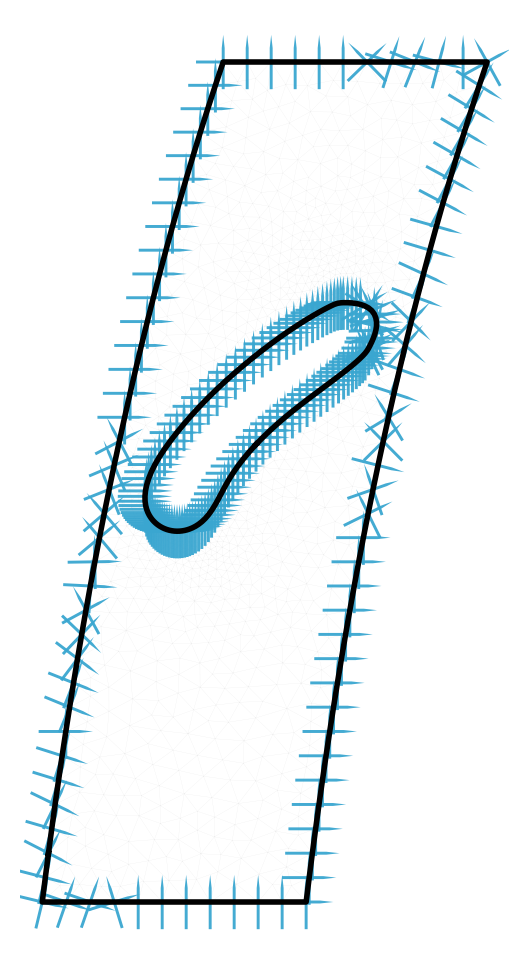
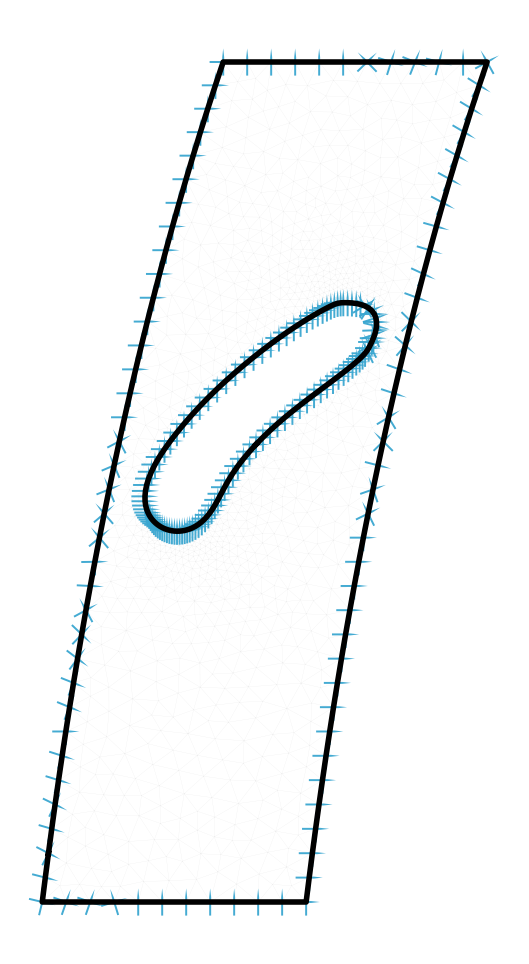
feat(slides): update step plots, add postprocessing step 09

diff --git a/scripts/plot_slide09_postprocessing.py b/scripts/plot_slide09_postprocessing.py
@@ -1,0 +1,126 @@
+#!/usr/bin/env python3
+"""
+Stage 1 / Step 09: Final T-a block structure (postprocessing), styled to match
+slides 1-8 (pure image, transparent, portrait, no axes/title/legend).
+
+Two marker families (both, per user request):
+  - RED open circle rings: the irregular interior nodes (valence != 4) = the
+    two blade field singularities (valence 5), the legitimate irregular block
+    corners that remain.
+  - ORANGE dashed arcs + rings: the wedge streamlines that T-a DELETES at the
+    periodic seam (``mesh.dropped_wedge_arms``) — clarifies WHERE streamlines
+    are removed (the same arms shown dashed in Step 8).
+
+Block data + regularity come straight from the real partition pipeline
+(``tmesh_partition.run_tmesh`` -> ``tmesh_faces.node_regularity``), so this is
+the actual T-a result, not a re-drawing.
+
+Output: plots/step09_postprocessing.png
+"""
+
+import sys
+import tempfile
+from pathlib import Path
+
+SCRIPT_DIR = Path(__file__).resolve().parent
+STAGE1_DIR = SCRIPT_DIR / "stage1"
+REPO_ROOT = SCRIPT_DIR.parent
+DP2D_DIR = REPO_ROOT.parent / "domain_partition_2D"
+
+if str(STAGE1_DIR) not in sys.path:
+    sys.path.insert(0, str(STAGE1_DIR))
+if str(DP2D_DIR) not in sys.path:
+    sys.path.insert(0, str(DP2D_DIR))
+
+OUT_PATH = REPO_ROOT / "plots" / "step09_postprocessing.png"
+
+import matplotlib
+
+matplotlib.use("Agg")
+import matplotlib.pyplot as plt
+import numpy as np
+
+import unwrap_surface as us  # noqa: E402
+import clean_separatrix as cs  # noqa: E402
+import partition_surface as ps  # noqa: E402
+import tmesh_faces as tmf  # noqa: E402
+import tmesh_partition as tp  # noqa: E402
+
+
+def main() -> None:
+    OUT_PATH.parent.mkdir(parents=True, exist_ok=True)
+
+    us.set_blade_tip_corners(False)
+    cs.set_emanate_outer_corners(True)
+
+    # --- 1. Run the real T-a pipeline (no plots) ---
+    with tempfile.TemporaryDirectory() as tmp:
+        ta = tp.run_tmesh(out_dir=Path(tmp), continue_seam_edges=False,
+                          tag="ta", make_plots=False, verbose=False)
+    result = ta["result"]
+    mesh = ta["mesh"]
+    boundary_ref = ta["boundary_ref"]
+    nodes = result["nodes"]
+    wedge_arms = getattr(mesh, "dropped_wedge_arms", []) or []
+
+    # Irregular interior nodes (valence != 4) = blade field singularities.
+    def _bdist(p):
+        return ps._min_boundary_dist(p, boundary_ref)
+
+    _regular, _tnodes, irregular = tmf.node_regularity(result, _bdist)
+
+    # --- 2. Plot (minimalist, slides 1-8 style) ---
+    xy = mesh.x[:, 0:2].numpy()
+    tris = mesh.faces.T.numpy()
+    fig, ax = plt.subplots(figsize=(4, 6))  # portrait
+
+    ax.triplot(xy[:, 0], xy[:, 1], tris, lw=0.1, color="0.93")
+
+    # Block cells: subtle light-blue fill, blue edges, small black corners.
+    for blk in result["blocks"]:
+        ring = blk["ring"]
+        ax.fill(ring[:, 0], ring[:, 1], alpha=0.12, color="#87CEEB")
+        for s in blk["sides"]:
+            ax.plot(s[:, 0], s[:, 1], color="#3aa6d0", lw=1.1, zorder=3)
+        c = nodes[blk["corners"]]
+        ax.scatter(c[:, 0], c[:, 1], c="black", s=10, zorder=5)
+
+    # Domain boundary (walls / blade): black.
+    for b in boundary_ref:
+        b = np.asarray(b, float)
+        if b.ndim == 2 and len(b) >= 2:
+            ax.plot(b[:, 0], b[:, 1], color="black", lw=1.6, zorder=4)
+
+    # ONLY the deletion story: each T-a-deleted wedge streamline drawn RED,
+    # and a RED ring around the singularity it emanates from (the two
+    # singularities where a streamline is removed). No other markers.
+    sing_xy = nodes[irregular] if irregular else np.zeros((0, 2))
+    ring_sings = set()
+    for arm in wedge_arms:
+        arm = np.asarray(arm, float)
+        if arm.ndim != 2 or len(arm) < 2:
+            continue
+        ax.plot(arm[:, 0], arm[:, 1], color="red", lw=2.2, zorder=8)
+        if len(sing_xy):
+            # The singularity end of the arm: the endpoint nearest a singularity.
+            d0 = np.min(np.linalg.norm(sing_xy - arm[0], axis=1))
+            d1 = np.min(np.linalg.norm(sing_xy - arm[-1], axis=1))
+            tip = arm[0] if d0 <= d1 else arm[-1]
+            ring_sings.add(int(np.argmin(np.linalg.norm(sing_xy - tip, axis=1))))
+    for si in ring_sings:
+        ax.scatter(sing_xy[si, 0], sing_xy[si, 1], facecolors="none",
+                   edgecolors="red", s=170, linewidths=2.2, zorder=9)
+
+    ax.set_aspect("equal")
+    ax.set_axis_off()
+    fig.savefig(OUT_PATH, dpi=200, transparent=True, bbox_inches="tight")
+    plt.close(fig)
+
+    print(f"wrote {OUT_PATH}")
+    print(f"  blocks:             {len(result['blocks'])}")
+    print(f"  deleted streamlines (red): {len(wedge_arms)}")
+    print(f"  ringed singularities:      {len(ring_sings)}")
+
+
+if __name__ == "__main__":
+    main()

diff --git a/scripts/plot_slide08_simplification.py b/scripts/plot_slide08_simplification.py
@@ -53,6 +53,7 @@ import tmesh_partition as tp  # noqa: E402
 from dp_adapter import build_dp_data  # noqa: E402
 from tools import FrameField, StreamlineGenerator_v2  # noqa: E402
 from tools.singularity_detector import detect_singularities  # noqa: E402
+from tools.streamline_merging import StreamlineMerging  # noqa: E402
 
 # Reuse the exact fold-into-central-pitch helper used by Step 07.
 from plot_slide07_integration import fold_curve, SEAM_SLOPE  # noqa: E402,F401
@@ -75,52 +76,46 @@ def main() -> None:
                           tag="ta", make_plots=False, verbose=False)
     wedge_arms = getattr(ta["mesh"], "dropped_wedge_arms", []) or []
 
-    # --- 2. Merged streamline state (Xiao 3-case simplification) ---
+    # --- 2. Merged streamline state after the 3 Xiao merging cases ---
+    # This is the EXACT merge the partition pipeline uses (StreamlineMerging,
+    # Xiao 2020 Alg. 2 Case 1/2/3), same as tmesh_partition.run_tmesh:1071 and
+    # compare_xiao_vs_ta.run_xiao — NOT the plot_central helix-close variant.
+    # We run it WITHOUT the T-a seam post-processing (collapse_seam_wedges), so
+    # the wedge streamlines that T-a deletes are still present here.
     mesh, _tf = build_dp_data(STL_PATH)
     ff = FrameField(mesh)
     detect_singularities(ff.mesh)
     sl = StreamlineGenerator_v2(ff.mesh)
     ps._drop_degenerate_corner_seps(sl.mesh)
+    ps._snap_separatrix_endpoints(sl.mesh, radius=0.045)
     pitch = sl.mesh.pitch_norm
 
-    ps._close_helical_streamlines(sl.mesh)   # Xiao Case: helix -> prong + ring
-    ps._emit_dock_crossings(sl)              # dock crossings (missed endpoints)
-    ps._snap_separatrix_endpoints(sl.mesh, radius=0.045)  # merge duplicates
+    n_b = len(sl.mesh.streamlines) - len(sl.mesh.separatrices)
+    boundary = [np.asarray(b, float) for b in sl.mesh.streamlines[:n_b]]
 
-    m = sl.mesh
-    n_b = len(m.streamlines) - len(m.separatrices)
-
-    boundary = [np.asarray(b, float) for b in m.streamlines[:n_b]]
-    term = ps._termination_nodes(m)
-
-    def _ends_ok(p):
-        for k in range(-ps.MAX_WRAPS, ps.MAX_WRAPS + 1):
-            q = np.asarray(p, float) - [k * pitch, 0.0]
-            if len(term) and np.min(np.linalg.norm(term - q, axis=1)) < 0.05:
-                return True
-            if ps._min_boundary_dist(q, boundary) < 0.05:
-                return True
-        return False
+    merging = StreamlineMerging(sl.mesh, verbose=False)
+    merged = [np.asarray(s, float) for s in merging.new_streamlines]
 
     # --- 3. Plot ---
     fig, ax = plt.subplots(figsize=(4, 6))  # portrait
 
-    for i, s in enumerate(m.streamlines):
-        s = np.asarray(s, float)
+    # Merged streamlines (boundary + separatrices) in light blue; the domain
+    # boundary is overdrawn black on top so walls/blade read as boundary.
+    for s in merged:
         if s.ndim != 2 or len(s) < 2:
             continue
-        if i < n_b:
-            if abs(s[-1, 0] - s[0, 0]) > 0.5 * pitch:   # ring
-                for seg in fold_curve(s, pitch):
-                    ax.plot(seg[:, 0], seg[:, 1], color="black", lw=1.5)
-            else:
-                ax.plot(s[:, 0], s[:, 1], color="black", lw=1.5)
+        for seg in fold_curve(s, pitch):
+            ax.plot(seg[:, 0], seg[:, 1], color="#87CEEB", lw=1.3, zorder=2)
+
+    for b in boundary:
+        b = np.asarray(b, float)
+        if b.ndim != 2 or len(b) < 2:
+            continue
+        if abs(b[-1, 0] - b[0, 0]) > 0.5 * pitch:   # ring spanning >=1 pitch
+            for seg in fold_curve(b, pitch):
+                ax.plot(seg[:, 0], seg[:, 1], color="black", lw=1.5, zorder=4)
         else:
-            segs = fold_curve(s, pitch)
-            if segs and not _ends_ok(s[-1]):
-                segs = segs[:-1]
-            for seg in segs:
-                ax.plot(seg[:, 0], seg[:, 1], color="#87CEEB", lw=1.3)
+            ax.plot(b[:, 0], b[:, 1], color="black", lw=1.5, zorder=4)
 
     # Wedge arms deleted by T-a: dashed dark orange (folded like the rest).
     for arm in wedge_arms:
@@ -140,7 +135,7 @@ def main() -> None:
     print(f"wrote {OUT_PATH}")
     print(f"  pitch:            {pitch:.3f}")
     print(f"  boundary curves:  {n_b}")
-    print(f"  separatrices:     {len(m.separatrices)}")
+    print(f"  merged streamlines (Xiao 3-case): {len(merged)}")
     print(f"  T-a deleted arms: {len(wedge_arms)}")
 
 

diff --git a/scripts/plot_slide07_integration.py b/scripts/plot_slide07_integration.py
@@ -151,9 +151,16 @@ def plot_integration(mesh, out_png):
 def main() -> None:
     OUT_PATH.parent.mkdir(parents=True, exist_ok=True)
 
-    # --- 1. Build the mesh + cross-field (same as plot_central_streamlines.main) ---
+    # --- 1. Build the mesh + cross-field. IDENTICAL field configuration to the
+    # real partition pipeline (tmesh_partition.run_tmesh): periodic seam weld ON,
+    # block-stage tiling OFF, no blade-tip corners, emanate outer corners. This
+    # guarantees the raw streamlines below are exactly those tmesh_partition.py
+    # generates (via the same StreamlineGenerator_v2 + _drop_degenerate_corner_seps),
+    # before any merge/simplification. ---
     us.set_blade_tip_corners(False)
     cs.set_emanate_outer_corners(True)
+    ps.set_periodic(True)
+    ps.set_tile_periodic(False)
     mesh, _transform = build_dp_data(STL_PATH)
     ff = FrameField(mesh)
     m = detect_singularities(ff.mesh)

diff --git a/scripts/plot_slide06_singularities.py b/scripts/plot_slide06_singularities.py
@@ -147,17 +147,12 @@ def main() -> None:
             alpha=0.9,
         )
 
-    # Final singularity markers.
-    # Positive Poincaré index (+1): red circles.
+    # Final singularity markers: red open circle rings (same style as the
+    # non-4-valence markers in Step 9 / plot_blocks: facecolors none, red edge).
     ax.scatter(
-        sc[pos, 0], sc[pos, 1],
-        c="red", s=80, zorder=5,
-    )
-    # Negative Poincaré index (-1): blue squares (the 4 final ones are all -1).
-    ax.scatter(
-        sc[~pos, 0], sc[~pos, 1],
-        c="blue", s=80, zorder=5,
-        marker="s",
+        sc[:, 0], sc[:, 1],
+        facecolors="none", edgecolors="red", s=150, linewidths=2.0,
+        zorder=6,
     )
 
     ax.set_aspect("equal")

diff --git a/scripts/plot_slide04_vectors.py b/scripts/plot_slide04_vectors.py
@@ -108,8 +108,8 @@ def main() -> None:
             bxy[:, 0], bxy[:, 1],
             np.cos(ang), np.sin(ang),
             color="#3aa6d0",   # blue cross arms (same as step03)
-            scale=9,
-            width=0.006,
+            scale=18,
+            width=0.004,
             headwidth=0,
             headlength=0,
             pivot="mid",
@@ -122,8 +122,8 @@ def main() -> None:
         bxy[:, 0], bxy[:, 1],
         np.cos(base[boundary_node_ids]), np.sin(base[boundary_node_ids]),
         color="red",
-        scale=9,
-        width=0.007,
+        scale=18,
+        width=0.005,
         headwidth=4,
         headlength=5,
         pivot="tail",

diff --git a/scripts/plot_slide03_crossfield.py b/scripts/plot_slide03_crossfield.py
@@ -100,8 +100,8 @@ def main() -> None:
             bxy[:, 0], bxy[:, 1],
             np.cos(ang), np.sin(ang),
             color="#3aa6d0",   # blue, higher contrast than the pale field blue
-            scale=9,           # smaller scale => longer, clearly visible arms
-            width=0.006,
+            scale=18,          # smaller scale => longer arms; balanced size
+            width=0.004,
             headwidth=0,
             headlength=0,
             pivot="mid",
